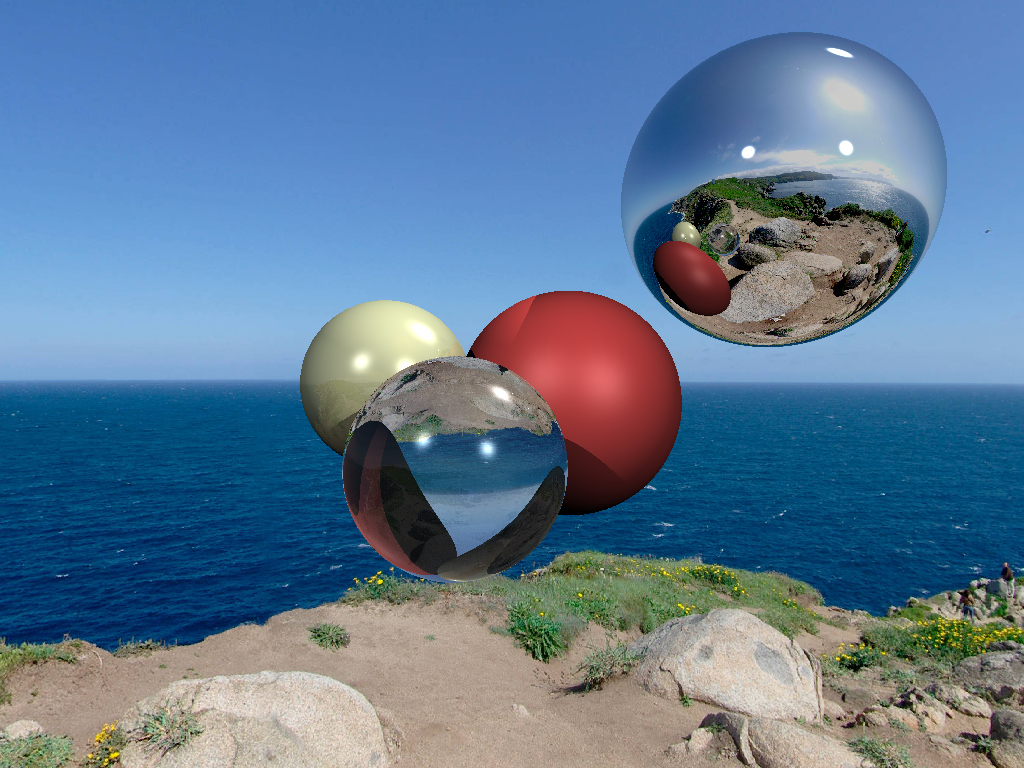
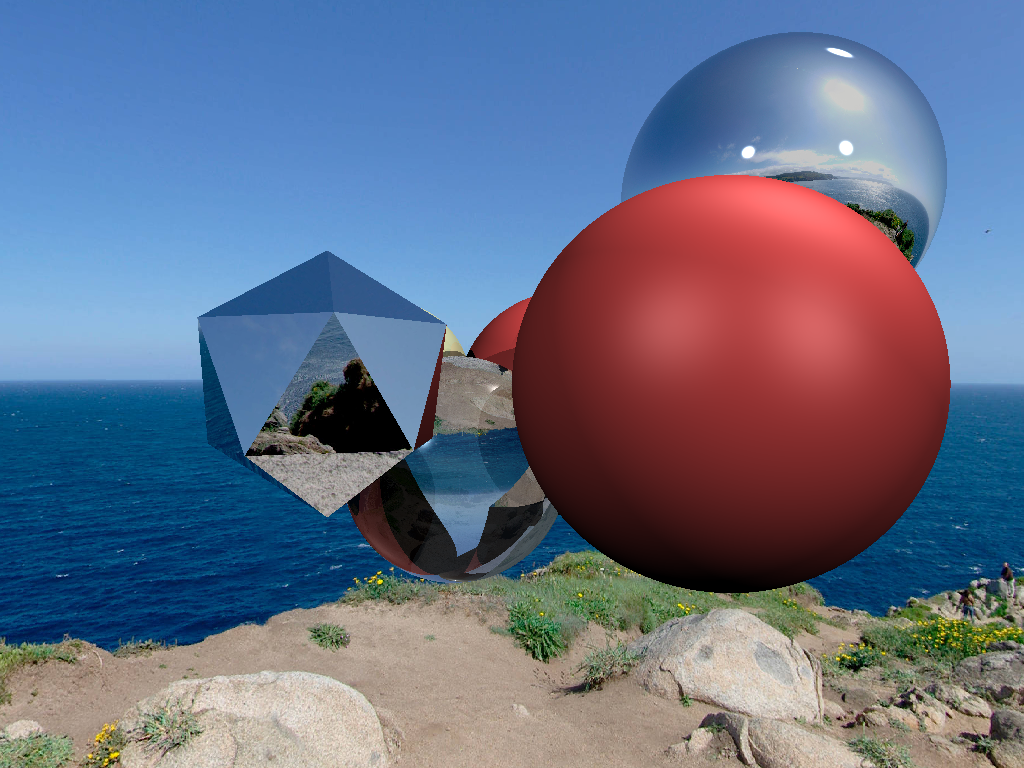
Add files via upload

Changed region(s): [[0.375, 0.2188, 0.9375, 0.7812], [0.1875, 0.3125, 0.4375, 0.7188]]

diff --git a/main.py b/main.py
@@ -4,6 +4,9 @@ import numpy as np
 from PIL import Image
 import struct
 import math
+from model import Model
+from sphere import Sphere
+import time
 
 envmap_width = 0
 envmap_height = 0
@@ -36,32 +39,6 @@ class Material:
         else:
             self.specular_exponent = spec
 
-class Sphere:
-    def __init__(self, center, radius, material):
-        self.center = center
-        self.radius = radius
-        self.material = material
-
-    def ray_intersect(self, orig, dir, t0):
-        OtC = self.center - orig
-        dt = OtC.dot(dir)
-        d2 = OtC.dot(OtC) - dt * dt
-        if d2 > self.radius * self.radius:
-            return False
-        thc = math.sqrt(self.radius * self.radius - d2)
-        t0[0] = dt - thc
-        t1 = dt + thc
-        if t0[0] < 0:
-            t0[0] = t1
-        if t0[0] < 0:
-            return False
-        return True
-# orig, origin of the ray
-# dir, direction of the ray
-# OtC, vector from origin of the ray to the center of the sphere
-# dtt, dot product of OtC and dir (the direction of the ray)
-# d2, the squared length of OtC minus the squared length of the projection of OtC onto dir.
-# d2 is the perpendicular distance between the ray and the center of the radius
 
 def reflect(I, N):
     return I - N * 2.0 * (I.dot(N))
@@ -85,12 +62,14 @@ def refract(I, N, refractive_index):
     else:
         return I * eta + n * (eta * cosi - math.sqrt(k))
 
-def scene_intersect(orig, dir, spheres):
+def scene_intersect(orig, dir, spheres, duck):
     spheres_dist = math.inf
     checkerboard_dist = math.inf
     hit = None
     N = None
     material = Material()  # Assign a default Material object
+
+    print('5, intersect')
 
     for i in range(len(spheres)):
         dist_i = [0.0]
@@ -100,11 +79,28 @@ def scene_intersect(orig, dir, spheres):
             N = (hit - spheres[i].center).normalize()
             material = spheres[i].material
 
+    # Checking for intersections with the obj model
+
+
+    obj_dist = float('inf')  # Initialize obj_dist with infinity
+    faces = duck.faces  # Get the list of faces from the duck model
+    for fi in range(duck.nfaces()):
+        tnear = [0.0]  # Create a list to store the intersection distance
+        if duck.ray_triangle_intersect(fi, orig, dir, tnear[0]):
+            face = duck.get_face(fi)
+            if tnear[0] < obj_dist:  # Check if the new intersection is closer
+                obj_dist = tnear[0]  # Update the obj_dist variable
+                hit = orig + dir * tnear[0]
+                N = duck.compute_normal(face)  # Compute the surface normal for the triangle
+                material = duck.material
+
     return hit, N, material
 
-def cast_ray(orig, dir, spheres, lights, depth=0):
+def cast_ray(orig, dir, spheres, lights, duck, depth=0):
 
-    point, N, material = scene_intersect(orig, dir, spheres)
+    print('4, cast ray')
+
+    point, N, material = scene_intersect(orig, dir, spheres, duck)
 
     if depth > 4 or point is None:
         u = 0.5 + math.atan2(dir.x, dir.z) / (2 * math.pi)
@@ -123,8 +119,8 @@ def cast_ray(orig, dir, spheres, lights, depth=0):
     reflect_orig = point - N * 1e-3 if reflect_dir.dot(N) < 0 else point + N * 1e-3
     refract_orig = refract_orig = point - N * 1e-3 if refract_dir.dot(N) < 0 else point + N * 1e-3
 
-    reflect_color = cast_ray(reflect_orig, reflect_dir, spheres, lights, depth + 1)
-    refract_color = cast_ray(refract_orig, refract_dir, spheres, lights, depth + 1)
+    reflect_color = cast_ray(reflect_orig, reflect_dir, spheres, lights, duck, depth + 1)
+    refract_color = cast_ray(refract_orig, refract_dir, spheres, lights, duck, depth + 1)
 
     diffuse_light_intensity = 0
     specular_light_intensity = 0
@@ -135,7 +131,7 @@ def cast_ray(orig, dir, spheres, lights, depth=0):
 
         shadow_orig = point - N * 1e-3 if light_dir.dot(N) < 0 else point + N * 1e-3  # checking if the point lies in the shadow of lights[i]
 
-        shadow_pt, shadow_N, tmpmaterial = scene_intersect(shadow_orig, light_dir, spheres)
+        shadow_pt, shadow_N, tmpmaterial = scene_intersect(shadow_orig, light_dir, spheres, duck)
 
         if shadow_pt is not None and (shadow_pt - shadow_orig).length() < light_distance:
             continue
@@ -148,18 +144,20 @@ def cast_ray(orig, dir, spheres, lights, depth=0):
 
     return diffuse_color * diffuse_light_intensity * albedo_0 + Vec3f(1.0, 1.0, 1.0) * specular_light_intensity * albedo_1 + reflect_color * albedo_2 + refract_color * albedo_3
 
-def render(spheres, lights):
+def render(spheres, lights, duck):
     width = 1024
     height = 768
     fov = math.pi / 3.0 # Field of View of the camera
     framebuffer = [Vec3f(0, 0, 0)] * (width * height)
+
+    print('2, In render')
 
     for j in range(height):
         for i in range(width):
             x = (2 * (i + 0.5) / float(width) - 1) * math.tan(fov / 2.0) * width / float(height)
             y = -(2 * (j + 0.5) / float(height) - 1) * math.tan(fov / 2.0)
             dir = Vec3f(x, y, -1).normalize()
-            framebuffer[i + j * width] = cast_ray(Vec3f(0, 0, 0), dir, spheres, lights)
+            framebuffer[i + j * width] = cast_ray(Vec3f(0, 0, 0), dir, spheres, lights, duck)
 
     image = Image.new("RGB", (width, height))
 
@@ -170,6 +168,8 @@ def render(spheres, lights):
                 255 * max(0, min(1, pixel_color.z))
             )
             image.putpixel((i, j), (r, g, b))
+
+    print('3, In render')
 
     image.save("out.png", "PNG")
 
@@ -192,7 +192,14 @@ def load_environment_map(filename):
         sys.exit(-1)
 
 def main():
+
+    start_time = time.time()
+
+    print('0, main started')
+
     envmap, envmap_width, envmap_height = load_environment_map("envmap.jpg")
+
+    print('0.2, environment loaded')
 
     ivory = Material(1.0, (0.6, 0.3, 0.1, 0.0), (0.4, 0.4, 0.3), 50.0)
     glass = Material(1.5, (0.0,  0.5, 0.1, 0.8), (0.6, 0.7, 0.8), 125.0)
@@ -205,12 +212,24 @@ def main():
     spheres.append(Sphere(Vec3f(1.5, -0.5, -18), 3, red_rubber))
     spheres.append(Sphere(Vec3f(7, 5, -18), 4, mirror))
 
+    spheres.append(Sphere(Vec3f(3, 0, -10), 3, red_rubber))
+
     lights = []
     lights.append(light(Vec3f(-20,20,20),1.5))
     lights.append(light(Vec3f(30, 50, -25), 1.8))
     lights.append(light(Vec3f(30, 20, 30), 1.7))
 
-    render(spheres,lights)
+    print('0.4, lights, spheres and materials added')
+
+    duck = Model('objFiles/polygon.obj', mirror)
+
+    print("1, In main, model created")
+
+    render(spheres,lights, duck)
+
+    end_time = time.time()  # Stop measuring the execution time
+    execution_time = (end_time - start_time) / 60.0
+    print(f"Execution time: {execution_time} minutes")
 
 if __name__ == "__main__":
     main()

diff --git a/model.py b/model.py
@@ -1,0 +1,136 @@
+import math
+import sys
+from typing import List
+from math import sqrt
+from vectors import *
+
+class Model:
+    # def __init__(self, filename: str, material) -> None:
+    #     self.verts: List[Vec3f] = []
+    #     self.faces: List[Vec3i] = []
+    #     self.load_model(filename)
+    #     self.material = material
+
+    def __init__(self, filename, material):
+        self.verts = []
+        self.faces = []
+        self.material = material
+        self.load_model(filename)
+
+    def load_model(self, filename: str) -> None:
+        try:
+            with open(filename, 'r') as file:
+                for line in file:
+                    line = line.strip()
+                    if line.startswith('v '):
+                        coordinates = line[2:].split()
+                        vertex = Vec3f(float(coordinates[0])-5, float(coordinates[1]), float(coordinates[2])-18)
+                        self.verts.append(vertex)
+                    elif line.startswith('f '):
+                        indices = line[2:].split()
+                        face = Vec3i(int(indices[0]) - 1, int(indices[1]) - 1, int(indices[2]) - 1)
+                        self.faces.append(face)
+        except FileNotFoundError:
+            print(f"Failed to open {filename}")
+            sys.exit(1)
+
+        print(f"# v# {len(self.verts)} f# {len(self.faces)}")
+
+        min_vertex, max_vertex = self.get_bbox()
+        print(f"bbox: [{min_vertex} : {max_vertex}]")
+
+    def ray_triangle_intersect(self, fi: int, orig: Vec3f, dir: Vec3f, tnear: float, tfar=float('inf')) -> bool:
+        def cross(v1: Vec3f, v2: Vec3f) -> Vec3f:
+            return Vec3f(
+                v1.y * v2.z - v1.z * v2.y,
+                v1.z * v2.x - v1.x * v2.z,
+                v1.x * v2.y - v1.y * v2.x
+            )
+
+        def dot(v1: Vec3f, v2: Vec3f) -> float:
+            return v1.x * v2.x + v1.y * v2.y + v1.z * v2.z
+
+        edge1 = self.point(self.vert(fi, 1)) - self.point(self.vert(fi, 0))
+        edge2 = self.point(self.vert(fi, 2)) - self.point(self.vert(fi, 0))
+        pvec = cross(dir, edge2)
+        det = dot(edge1, pvec)
+        if det < 1e-5:
+            return False
+
+        tvec = orig - self.point(self.vert(fi, 0))
+        u = dot(tvec, pvec)
+        if u < 0 or u > det:
+            return False
+
+        qvec = cross(tvec, edge1)
+        v = dot(dir, qvec)
+        if v < 0 or u + v > det:
+            return False
+
+        inv_det = 1.0 / det
+        tnear = dot(edge2, qvec) * inv_det
+        return tnear > 1e-5
+
+    def nverts(self) -> int:
+        return len(self.verts)
+
+    def nfaces(self) -> int:
+        return len(self.faces)
+
+    def get_face(self, index: int) -> Vec3i:
+        assert 0 <= index < self.nfaces()
+        return self.faces[index]
+
+    def get_bbox(self) -> (Vec3f, Vec3f):
+        min_vertex = max_vertex = self.verts[0]
+        for vertex in self.verts[1:]:
+            for i in range(3):
+                min_vertex = Vec3f(min(min_vertex.x, vertex.x), min(min_vertex.y, vertex.y),
+                                   min(min_vertex.z, vertex.z))
+                max_vertex = Vec3f(max(max_vertex.x, vertex.x), max(max_vertex.y, vertex.y),
+                                   max(max_vertex.z, vertex.z))
+        return min_vertex, max_vertex
+
+    def point(self, i: int) -> Vec3f:
+        assert 0 <= i < self.nverts()
+        return self.verts[i]
+
+    def vert(self, fi: int, li: int) -> int:
+        assert 0 <= fi < self.nfaces() and 0 <= li < 3
+        face = self.faces[fi]
+        if li == 0:
+            return face.x
+        elif li == 1:
+            return face.y
+        elif li == 2:
+            return face.z
+
+    def __str__(self) -> str:
+        output = ""
+        for i in range(self.nverts()):
+            output += f"v {self.point(i)}\n"
+        for i in range(self.nfaces()):
+            output += "f "
+            for k in range(3):
+                output += f"{self.vert(i, k) + 1} "
+            output += "\n"
+        return output
+
+    # def cross(self, other):
+    #     if isinstance(other, Vec3f):
+    #         return Vec3f(
+    #             self.y * other.z - self.z * other.y,
+    #             self.z * other.x - self.x * other.z,
+    #             self.x * other.y - self.y * other.x
+    #         )
+
+    def compute_normal(self, face):
+        v0 = self.point(face.x)
+        v1 = self.point(face.y)
+        v2 = self.point(face.z)
+        edge1 = v1 - v0
+        edge2 = v2 - v0
+        N = edge1.cross(edge2).normalize()
+        return N
+
+

diff --git a/sphere.py b/sphere.py
@@ -1,0 +1,29 @@
+import math
+from vectors import *
+
+class Sphere:
+    def __init__(self, center, radius, material):
+        self.center = center
+        self.radius = radius
+        self.material = material
+
+    def ray_intersect(self, orig, dir, t0):
+        OtC = self.center - orig
+        dt = OtC.dot(dir)
+        d2 = OtC.dot(OtC) - dt * dt
+        if d2 > self.radius * self.radius:
+            return False
+        thc = math.sqrt(self.radius * self.radius - d2)
+        t0[0] = dt - thc
+        t1 = dt + thc
+        if t0[0] < 0:
+            t0[0] = t1
+        if t0[0] < 0:
+            return False
+        return True
+# orig, origin of the ray
+# dir, direction of the ray
+# OtC, vector from origin of the ray to the center of the sphere
+# dtt, dot product of OtC and dir (the direction of the ray)
+# d2, the squared length of OtC minus the squared length of the projection of OtC onto dir.
+# d2 is the perpendicular distance between the ray and the center of the radius

diff --git a/vectors.py b/vectors.py
@@ -55,6 +55,14 @@ class Vec3f:
         else:
             return Vec3f()
 
+    def cross(self, other):
+        if isinstance(other, Vec3f):
+            return Vec3f(
+                self.y * other.z - self.z * other.y,
+                self.z * other.x - self.x * other.z,
+                self.x * other.y - self.y * other.x
+            )
+
     def norm(self):
         return math.sqrt(self.x * self.x + self.y * self.y + self.z * self.z)
 

diff --git a/README.md b/README.md
@@ -52,5 +52,24 @@ For the purposes of this project, the chessboard was removed from the scene. The
 
 <img src="https://github.com/moezdurrani/TinyRayTracerPython/blob/main/Images/010.png">
 
+## 3D Models (.obj Files Rendered)
+
+| First Image                                 | Second Image                                | Third Image                                 |
+|---------------------------------------------|---------------------------------------------|---------------------------------------------|
+| ![Image 1](https://github.com/moezdurrani/TinyRayTracerPyt/blob/master/Images/011.png) | ![Image 2](https://github.com/moezdurrani/TinyRayTracerPyt/blob/master/Images/012.png) | ![Image 3](https://github.com/moezdurrani/TinyRayTracerPyt/blob/master/Images/013.png) |
+
+An [algorithm](https://github.com/moezdurrani/TinyRayTracerPyt/blob/master/model.py) was implemented to read the vertices and faces from the meshes of triangulated 3D models. These vertices and faces were utilized to render the models in our scene. The rendering time varied based on the complexity of the models. Below is a summary of the .obj files and the time it took to render them:
+
+<div align="center">
+  
+| Model     | Vertices | Triangles | Rendering Time (minutes) |
+|-----------|----------|-----------|-------------------------|
+| Model 1   | 84       | 28        | 26                      |
+| Model 2   | 60       | 20        | 16                      |
+| Model 3   | 240      | 80        | 65                      |
+
+</div>
+
+
 
 
